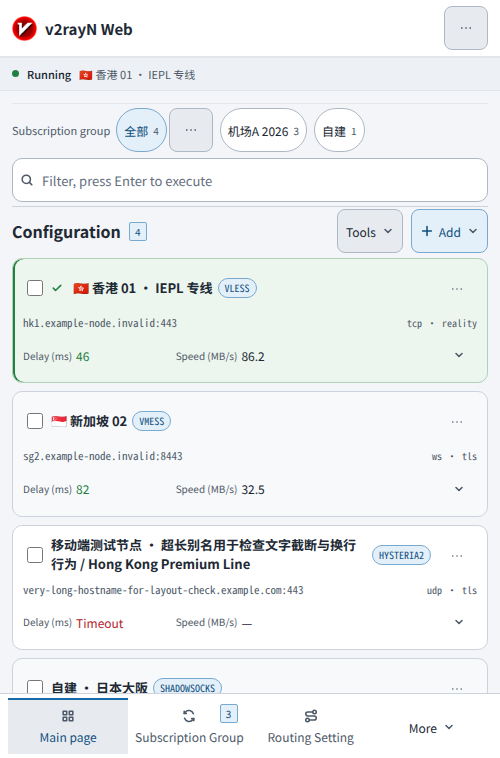
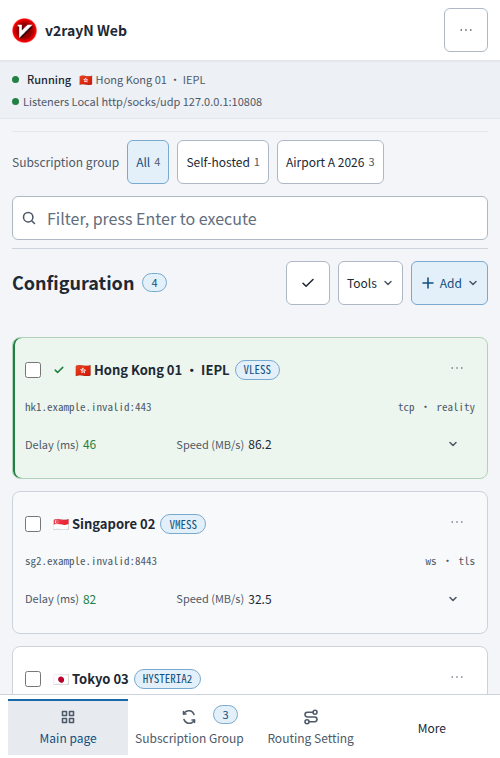
chore: add local README screenshot capture

diff --git a/Src/style.css b/Src/style.css
@@ -921,7 +921,7 @@ button:focus-visible, a:focus-visible, input:focus-visible, select:focus-visible
   .profile-table td.address-cell, .profile-table td.group-cell, .profile-table td.ip-cell { display: table-cell; }
 }
 .page-feedback { min-height: var(--feedback-height); display: flex; align-items: center; color: var(--text-muted); font-size: var(--font-label); overflow-wrap: anywhere; }
-.nodes-feedback-slot { min-height: var(--control-height); }
+.nodes-feedback-slot { min-height: var(--feedback-height); }
 .operation-status { min-width: 0; min-height: var(--control-height); display: flex; align-items: center; flex-wrap: nowrap; gap: var(--space-2); margin: 0; color: var(--accent-text); font-size: var(--font-label); }
 .operation-status-label { min-width: 0; overflow: hidden; text-overflow: ellipsis; white-space: nowrap; }
 .operation-status .link-button, .operation-status .speedtest-refresh { flex: 0 0 auto; }

diff --git a/README.md b/README.md
@@ -18,6 +18,15 @@ npm run typecheck
 npm run build
 ```
 
+Refresh the README desktop/mobile screenshots with isolated fixture data (no live Backend):
+
+```sh
+PLAYWRIGHT_BROWSERS_PATH=.playwright-browsers npx playwright install chromium
+npm run screenshots
+```
+
+Playwright's browser download and optional local screenshot artifacts are ignored by Git.
+
 To use a locally running API while developing, start the Vite server and point its development
 proxy at the API. The default target is `http://127.0.0.1:5080`; override it when needed:
 
